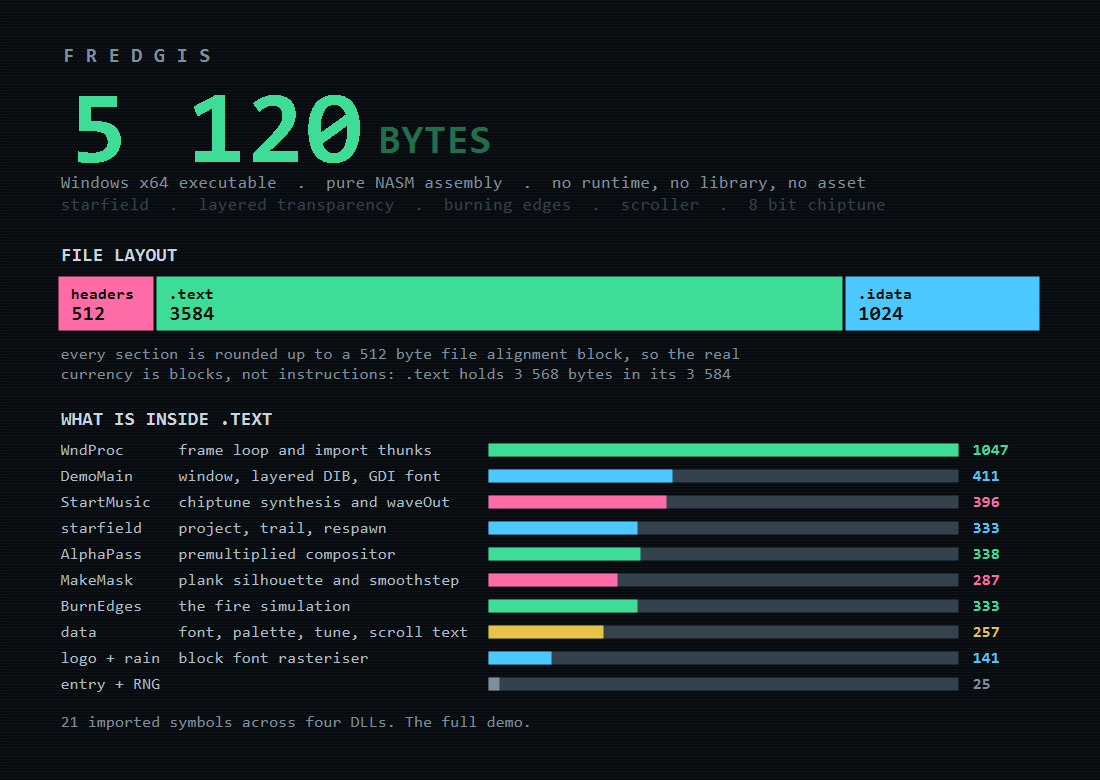
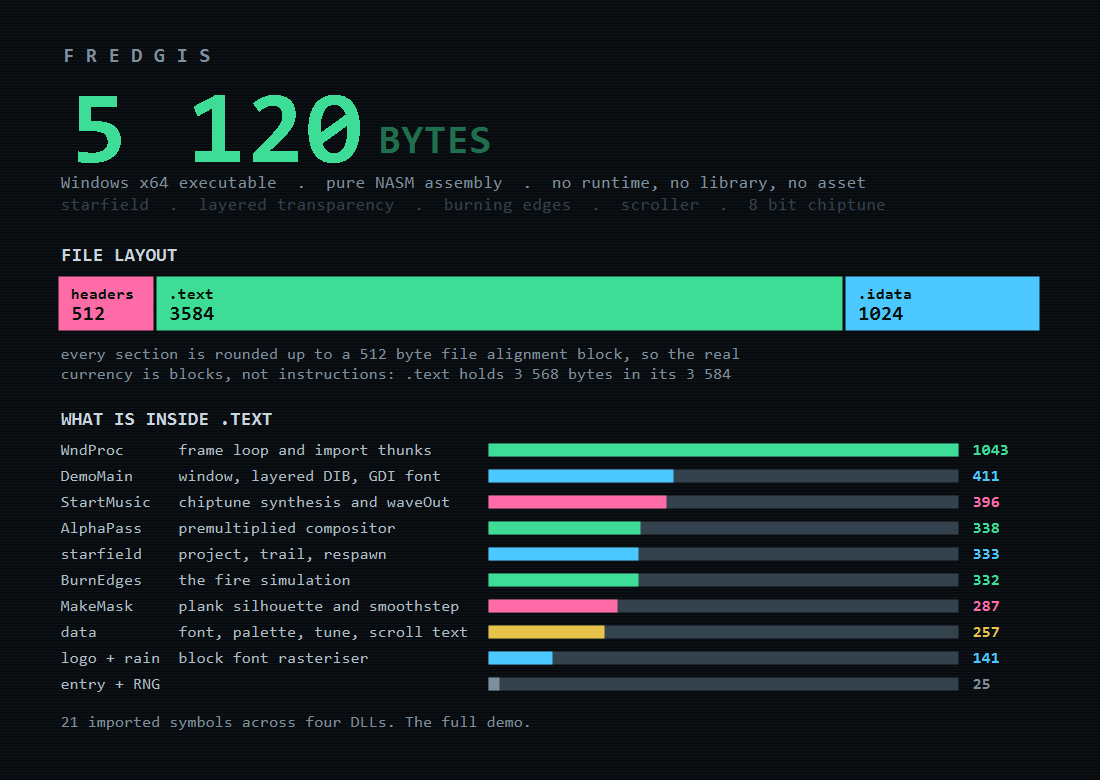
Shrink fredgis4k.exe to 3584 bytes (-512B PE file block reduction)
- Fall through startup initialization (BuildLogo -> MakeMask -> InitField) in fredgis4k.asm (-18B)
- Pin hwnd in rsi and mem_dc in r12 to eliminate BSS and stack moves in fredgis4k.asm (-16B)
- Optimize BurnEdges and AlphaPass countdown loops (-12B)
- Eliminate duplicate ST_Z initialization in InitField (-16B)
- Compact message loop dispatch and frame clear in fredgis4k.asm (-4B)
- Cross the 2560-byte .text threshold: fredgis4k.exe drops from 4096 to 3584 bytes (-512B)
- Update make_budget.ps1, bytes.png, bytes4k.png and README.md

Copilot-Session: b00453fc-fde9-425e-ab58-828f13cedd49

Changed region(s): [[0.1545, 0.6462, 0.5873, 0.8], [0.0618, 0.6462, 0.1236, 0.8], [0.8655, 0.7385, 0.9273, 0.8]]

diff --git a/README.md b/README.md
@@ -11,7 +11,7 @@
 
 <p align="center">
   <a href="https://github.com/fredgis/introfredgis/releases/latest/download/fredgis.exe"><b>⬇ fredgis.exe</b> — 5 120 bytes, everything</a><br>
-  <a href="https://github.com/fredgis/introfredgis/releases/latest/download/fredgis4k.exe"><b>⬇ fredgis4k.exe</b> — 4 096 bytes, no sound, no scroller</a>
+  <a href="https://github.com/fredgis/introfredgis/releases/latest/download/fredgis4k.exe"><b>⬇ fredgis4k.exe</b> — 3 584 bytes, no sound, no scroller</a>
 </p>
 
 <p align="center">
@@ -24,13 +24,13 @@
 
 ## Two builds, one source tree
 
-Both are the same demo. The 4 096 byte one exists because the file size is
+Both are the same demo. The 3 584 byte one exists because the file size is
 quantised in 512 byte blocks, so shrinking the code changes nothing until a
 whole block comes free — the only way down was to give up features.
 
 | | `fredgis.asm` | `fredgis4k.asm` |
 | --- | :---: | :---: |
-| **size** | **5 120 bytes** | **4 096 bytes** |
+| **size** | **5 120 bytes** | **3 584 bytes** |
 | imported symbols | 21, four DLLs | 8, three DLLs |
 | burning plank window, layered alpha | ✅ | ✅ |
 | block logo, Matrix rain, glitch | ✅ | ✅ |
@@ -71,7 +71,7 @@ bitmap, and the music is synthesised sample by sample into a byte array.
 | File | Purpose |
 | --- | --- |
 | `fredgis.asm` | The full demo. ~1 520 lines of NASM, 21 imported symbols. |
-| `fredgis4k.asm` | The same demo stripped to fit 4 096 bytes. |
+| `fredgis4k.asm` | The same demo stripped to fit 3 584 bytes. |
 | `tiny.ld` | Custom linker script that discards every section the linker emits by default and that this program has no use for. |
 | `pecompact.ps1` | Post link step that shrinks the padded PE header block from 512 to 0 wasted bytes. |
 | `build.ps1` | One command, builds both. |
@@ -89,7 +89,7 @@ toolchain, both on `PATH`.
 
 ```
 fredgis.exe      5120 bytes
-fredgis4k.exe    4096 bytes
+fredgis4k.exe    3584 bytes
 ```
 
 Or by hand:
@@ -114,7 +114,7 @@ or build them yourself with the command above.
 
 ```powershell
 .\fredgis.exe        # everything
-.\fredgis4k.exe      # 4096 bytes, no sound and no scroller
+.\fredgis4k.exe      # 3584 bytes, no sound and no scroller
 ```
 
 * **Drag anywhere** to move the window — there is no title bar. *(full build only)*
@@ -692,7 +692,7 @@ tricks do not get you there:
 | drop the high octave from the tune | −16 bytes, **file unchanged** |
 | apply every peephole idiom left | under 100 bytes, **file unchanged** |
 | `rep stosd` block fill and a SIMD premultiply | −32 in `.text`, **file unchanged** |
-| drop music + scroller + drag + window class | −960 in `.text`, −520 in `.idata`, **file 5 120 → 4 096** |
+| drop music + scroller + drag + window class | −1008 in `.text`, −520 in `.idata`, **file 5 120 → 3 584** |
 
 The measured floor for `.idata` is the interesting part. Eleven imports — the
 smallest set that still creates a layered window and blits it — assembles to
